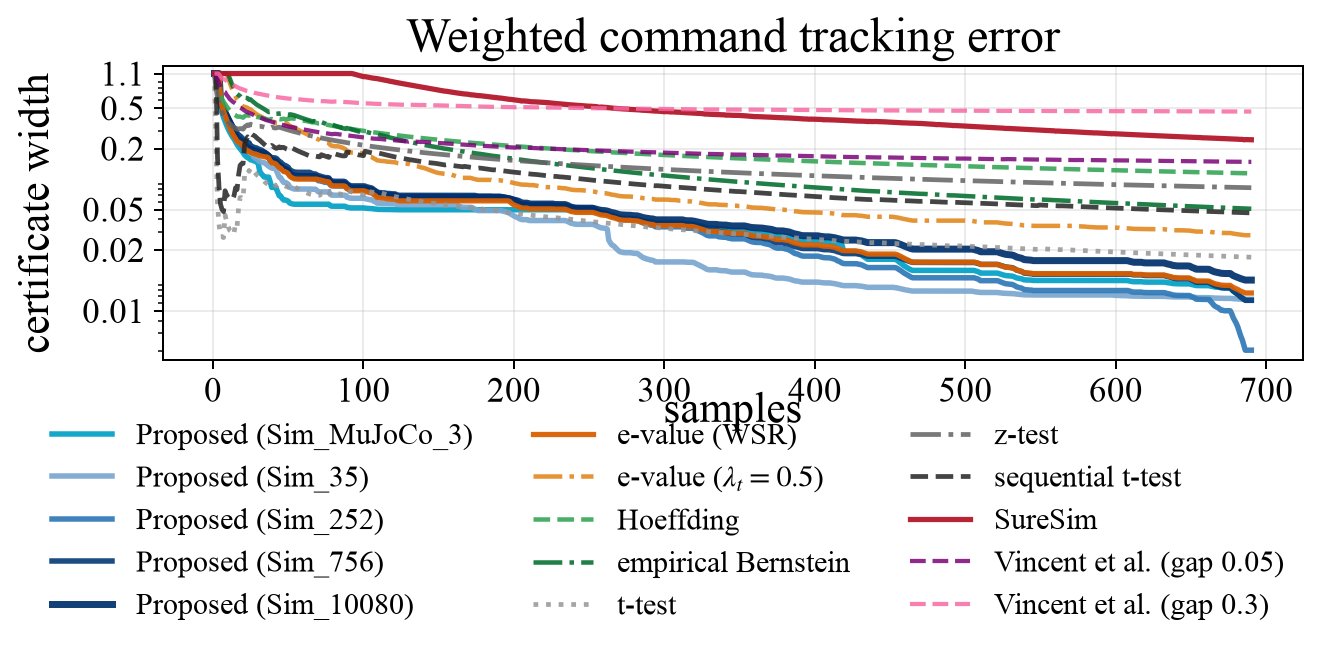
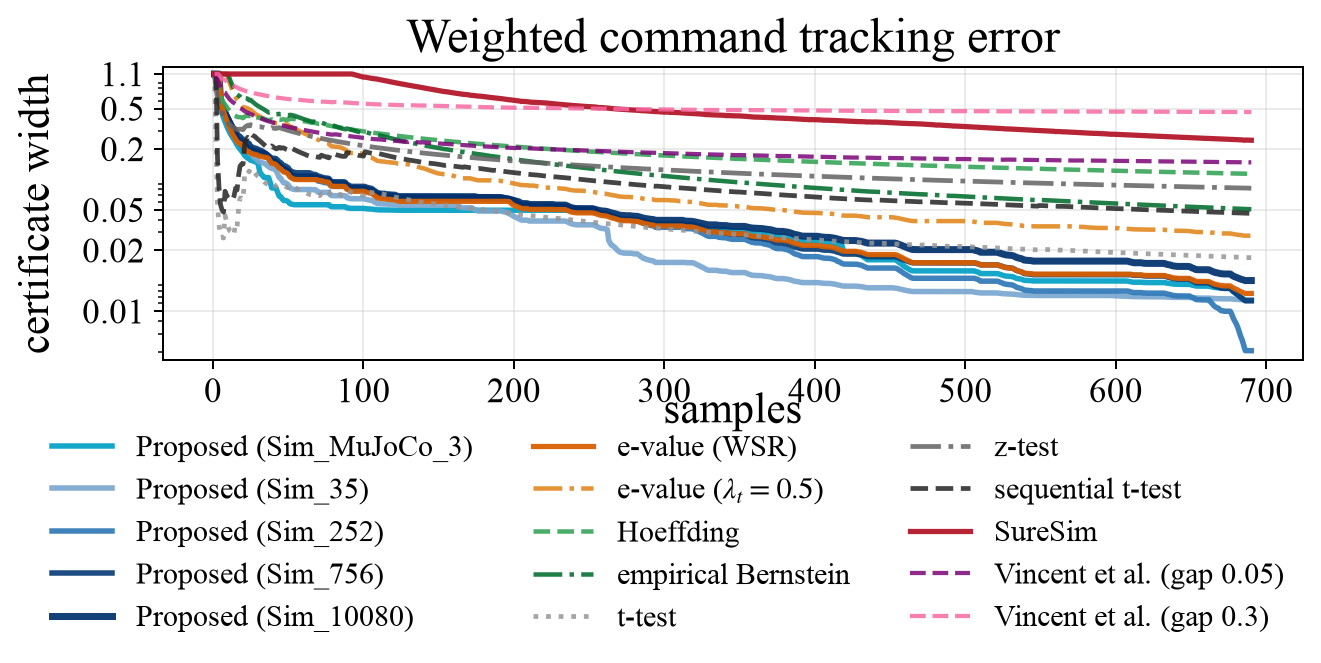
groot fig size change

diff --git a/gr00t_command_tracking/plot_demo.py b/gr00t_command_tracking/plot_demo.py
@@ -234,7 +234,7 @@ def plot_width_curves():
 
     handles, labels = zip(*[legend_entries[key] for key in order if key in legend_entries])
     ncol = 3 if len(measures) == 1 else 5
-    leg = fig.legend(handles, labels, loc="lower center", ncol=ncol, frameon=False, bbox_to_anchor=(0.5, -0.08))
+    leg = fig.legend(handles, labels, loc="lower center", ncol=ncol, frameon=False, bbox_to_anchor=(0.5, -0.1))
     fig.subplots_adjust(left=0.11, right=0.99, bottom=0.42, top=0.93, wspace=0.27)
     save = DATA_DIR / "width_curves.png"
     fig.savefig(save, dpi=180, bbox_inches="tight")
@@ -250,7 +250,7 @@ def plot_normalized_sequences():
         for meta in read_csv(DATA_DIR / "normalization_metadata.csv")
         if meta["source"] in SEQUENCES
     ]
-    fig, axes = plt.subplots(1, len(metadata), figsize=(6.2 * len(metadata), 3.7), sharey=True)
+    fig, axes = plt.subplots(1, len(metadata), figsize=(5.0 * len(metadata), 3.7), sharey=True)
     if len(metadata) == 1:
         axes = [axes]
     for ax, meta in zip(axes, metadata):
